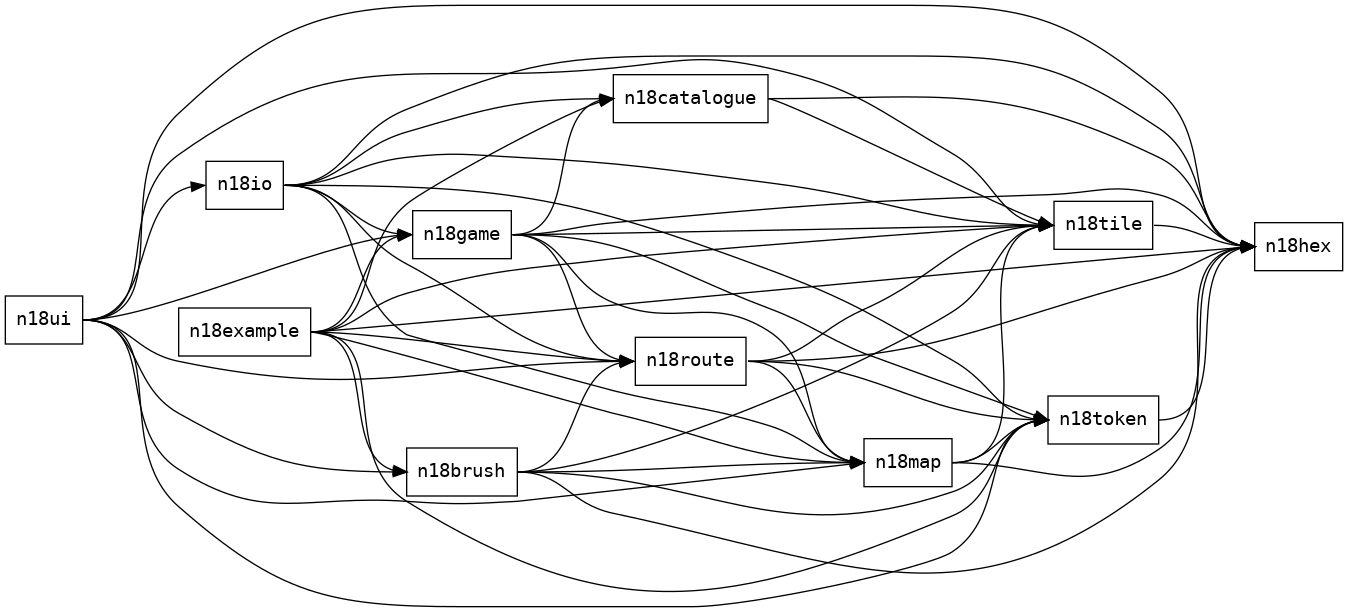
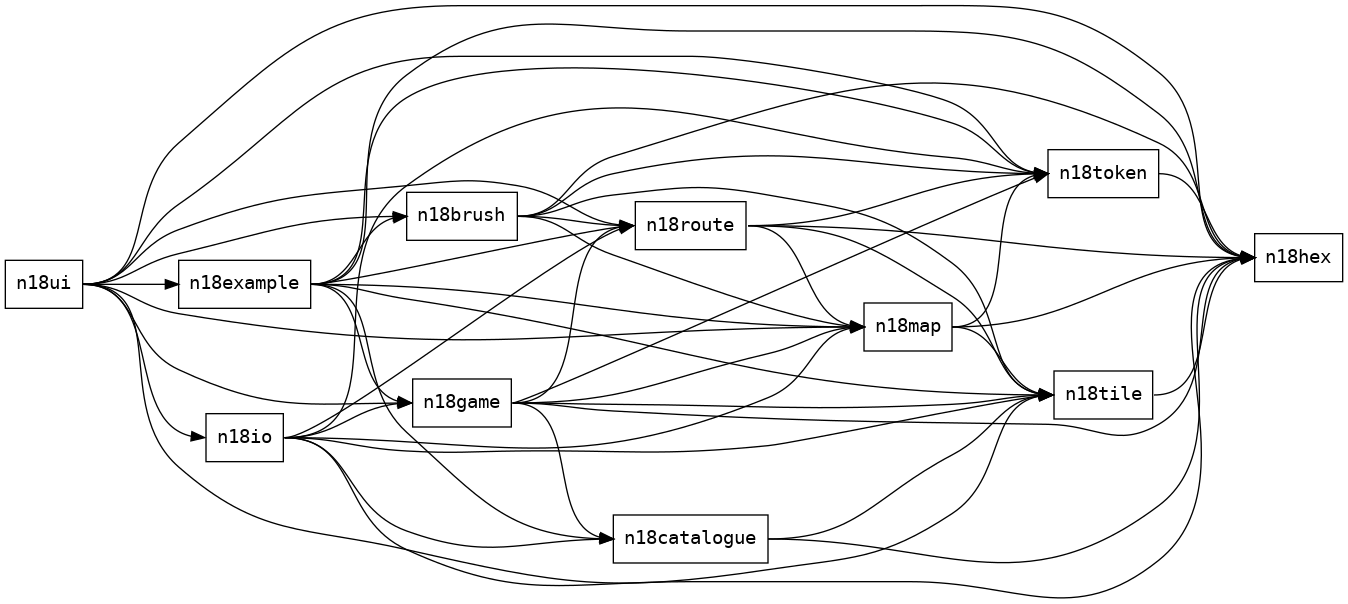
Define an empty starting state for the UI
The drawing area is now resized when starting a new game or loading a
saved game. Note that the backing surface is not resized, but instead
retains its original dimensions; this will need to be addressed.

The n18ui crate now depends on n18example.

diff --git a/crates/n18ui/src/lib.rs b/crates/n18ui/src/lib.rs
@@ -85,6 +85,8 @@ pub enum Action {
     Quit,
     /// Redraw the surface.
     Redraw,
+    /// Resize the drawing area and redraw the surface.
+    Resize,
     /// Increase the hex size.
     ZoomIn,
     /// Decrease the hex size.
@@ -103,12 +105,31 @@ pub enum Action {
 
 impl UI {
     /// Creates the initial user interface state.
-    pub fn new(hex: Hex, games: Vec<Box<dyn Game>>, map: Map) -> Self {
-        let b: Box<dyn State> = Box::new(state::default::Default::new(&map));
+    pub fn new(hex: Hex, games: Vec<Box<dyn Game>>) -> Self {
+        let init_state = state::start::Start::new();
+        let map = init_state.dummy_map();
+        let b: Box<dyn State> = Box::new(init_state);
         let state = Some(b);
         let games = Games::new(games);
         let content = Content { hex, map, games };
         UI { content, state }
+    }
+
+    /// Returns the dimensions of the current game map, in pixels.
+    pub fn map_size(&self) -> (f64, f64) {
+        // NOTE: margin is defined in Map::prepare_to_draw().
+        let margin = 10.0;
+        let num_rows =
+            self.content.map.max_row - self.content.map.min_row + 1;
+        let num_cols =
+            self.content.map.max_col - self.content.map.min_col + 1;
+        // After the first column, each column contributes 0.75 * max_d.
+        let width =
+            self.content.hex.max_d * (1.0 + ((num_cols - 1) as f64) * 0.75);
+        // Each row is 1.5 * min_d in height, if it contains hexes with both
+        // odd and even column numbers.
+        let height = (num_rows as f64 + 0.5) * self.content.hex.min_d;
+        (width + 2.0 * margin, height + 2.0 * margin)
     }
 
     /// Draws the current state of the user interface.
@@ -121,6 +142,18 @@ impl UI {
             ctx.fill();
             state.draw(&self.content, ctx);
         }
+    }
+
+    /// Requests the drawing area to update its size, and redraws the current
+    /// game state.
+    fn resize_and_redraw(&self, area: &gtk::DrawingArea, ctx: &Context) {
+        let dims = self.map_size();
+        let width = dims.0 as i32;
+        let height = dims.1 as i32;
+        area.set_size_request(width, height);
+        // NOTE: must redraw to the backing surface.
+        self.draw(ctx);
+        area.queue_draw();
     }
 
     pub fn handle_action(
@@ -136,16 +169,7 @@ impl UI {
                     // NOTE: may need to increase surface, draw area size?
                     self.content.hex =
                         Hex::new(self.content.hex.max_d + 10.0);
-                    let surf_w = ((self.content.map.max_col as f64)
-                        * self.content.hex.min_d)
-                        as i32;
-                    let surf_h = ((self.content.map.max_row as f64)
-                        * self.content.hex.max_d)
-                        as i32;
-                    area.set_size_request(surf_w, surf_h);
-                    // NOTE: must redraw to the backing surface.
-                    self.draw(ctx);
-                    area.queue_draw();
+                    self.resize_and_redraw(area, ctx);
                 }
             }
             Action::ZoomOut => {
@@ -153,22 +177,19 @@ impl UI {
                     // NOTE: may need to decrease surface, draw area size?
                     self.content.hex =
                         Hex::new(self.content.hex.max_d - 10.0);
-                    let surf_w = ((self.content.map.max_col as f64)
-                        * self.content.hex.min_d)
-                        as i32;
-                    let surf_h = ((self.content.map.max_row as f64)
-                        * self.content.hex.max_d)
-                        as i32;
-                    area.set_size_request(surf_w, surf_h);
-                    // NOTE: must redraw to the backing surface.
-                    self.draw(ctx);
-                    area.queue_draw();
+                    self.resize_and_redraw(area, ctx);
                 }
             }
             Action::Redraw => {
                 // NOTE: must redraw to the backing surface.
                 self.draw(ctx);
                 area.queue_draw();
+            }
+            Action::Resize => {
+                // NOTE: request this size request is only required when the
+                // game map has been replaced (e.g., by starting a new game or
+                // by loading a saved game).
+                self.resize_and_redraw(area, ctx);
             }
             Action::Quit => {
                 window.close();
@@ -318,7 +339,7 @@ pub fn global_keymap(
                     return Some((
                         ResetState::Yes,
                         Inhibit(false),
-                        Action::Redraw,
+                        Action::Resize,
                     ));
                 }
             }

diff --git a/src/bin/rusty_train.rs b/src/bin/rusty_train.rs
@@ -13,12 +13,6 @@ pub fn build_ui(application: &gtk::Application) {
     let hex_width: i32 = 125;
     let hex = Hex::new(hex_width as f64);
     let game = n18game::_1867::Game::new(&hex);
-    let map = game.create_map(&hex);
-
-    let num_rows = map.max_row;
-    let num_cols = map.max_col;
-    let sw = ((num_cols as f64) * hex.min_d) as i32;
-    let sh = (num_rows as i32) * hex_width;
 
     let game_box = Box::new(game);
     let games: Vec<Box<dyn Game>> = vec![game_box];
@@ -26,8 +20,8 @@ pub fn build_ui(application: &gtk::Application) {
     // NOTE: instead of using Rc<RefCell<UI>> to share a mutable UI value, use
     // channels to send messages to a single event-handler that owns and
     // mutates the UI state.
-    let state = UI::new(hex, games, map);
-    run(application, state, sw, sh);
+    let state = UI::new(hex, games);
+    run(application, state);
 }
 
 pub fn main() {
@@ -63,18 +57,19 @@ pub enum UiEvent {
     KeyPress { event: gdk::EventKey },
 }
 
-pub fn run(
-    application: &gtk::Application,
-    mut state: UI,
-    width: i32,
-    height: i32,
-) {
+pub fn run(application: &gtk::Application, mut state: UI) {
     let window = gtk::ApplicationWindow::new(application);
     let bar = gtk::HeaderBar::new();
     let adj: Option<&gtk::Adjustment> = None;
     let scrolled_win = gtk::ScrolledWindow::new(adj, adj);
     let drawing_area = Box::new(DrawingArea::new)();
 
+    let dims = state.map_size();
+    let width = dims.0 as i32;
+    let height = dims.1 as i32;
+
+    // NOTE: this image surface, which has fixed dimensions, will be used to
+    // draw all game maps.
     let surf = cairo::ImageSurface::create(
         cairo::Format::ARgb32,
         width * 2,
@@ -84,7 +79,7 @@ pub fn run(
     let state_ctx = cairo::Context::new(&surf);
 
     state_ctx.set_source_rgb(1.0, 1.0, 1.0);
-    state_ctx.rectangle(0.0, 0.0, 2.0 * width as f64, 2.0 * height as f64);
+    state_ctx.rectangle(0.0, 0.0, 2.0 * dims.0, 2.0 * dims.1);
     state_ctx.fill();
     state.draw(&state_ctx);
 

diff --git a/crates/n18ui/src/state/start.rs b/crates/n18ui/src/state/start.rs
@@ -1,0 +1,72 @@
+//! Defines the starting UI state.
+use cairo::Context;
+use gtk::Inhibit;
+
+use n18example::LabelBuilder;
+
+use super::{Action, State};
+use crate::Content;
+
+/// The starting UI state: no game, no map.
+pub struct Start {}
+
+impl Start {
+    pub fn new() -> Self {
+        Start {}
+    }
+
+    pub fn dummy_map(&self) -> n18map::Map {
+        let tiles = vec![];
+        let tokens = vec![].into();
+        // NOTE: a map must have at least one hex.
+        // And these hexes currently define the size of the image buffer.
+        let hexes = vec![
+            n18map::HexAddress::new(0, 0),
+            n18map::HexAddress::new(50, 50),
+        ];
+        n18map::Map::new(tiles, tokens, hexes)
+    }
+}
+
+impl Default for Start {
+    fn default() -> Self {
+        Start {}
+    }
+}
+
+impl State for Start {
+    fn draw(&self, content: &Content, ctx: &Context) {
+        ctx.set_source_rgb(0.9, 0.9, 0.9);
+        ctx.paint();
+        let usage = LabelBuilder::new(
+            ctx,
+            &content.hex,
+            "Ctrl+N: Start a new game\nCtrl+O: Load a saved game",
+        )
+        .font_size(16.0)
+        .into_label()
+        .unwrap();
+        ctx.set_source_rgb(0.0, 0.0, 0.0);
+        usage.draw_at(20.0, 20.0);
+    }
+
+    fn key_press(
+        self: Box<Self>,
+        _content: &mut Content,
+        _window: &gtk::ApplicationWindow,
+        _area: &gtk::DrawingArea,
+        _event: &gdk::EventKey,
+    ) -> (Box<dyn State>, Inhibit, Action) {
+        (self, Inhibit(false), Action::None)
+    }
+
+    fn button_press(
+        self: Box<Self>,
+        _content: &mut Content,
+        _window: &gtk::ApplicationWindow,
+        _area: &gtk::DrawingArea,
+        _event: &gdk::EventButton,
+    ) -> (Box<dyn State>, Inhibit, Action) {
+        (self, Inhibit(false), Action::None)
+    }
+}

diff --git a/crates/n18ui/src/util.rs b/crates/n18ui/src/util.rs
@@ -173,7 +173,7 @@ pub fn load_game(
             content.games.active_mut().load(&content.hex, game_state)
         {
             content.map = new_map;
-            Ok(Action::Redraw)
+            Ok(Action::Resize)
         } else {
             Ok(Action::None)
         }

diff --git a/crates/n18ui/src/state.rs b/crates/n18ui/src/state.rs
@@ -7,6 +7,7 @@ pub mod default;
 pub mod edit_tokens;
 pub mod find_routes;
 pub mod replace_tile;
+pub mod start;
 
 /// The methods that are required in order to manipulate the user interface.
 pub trait State {
